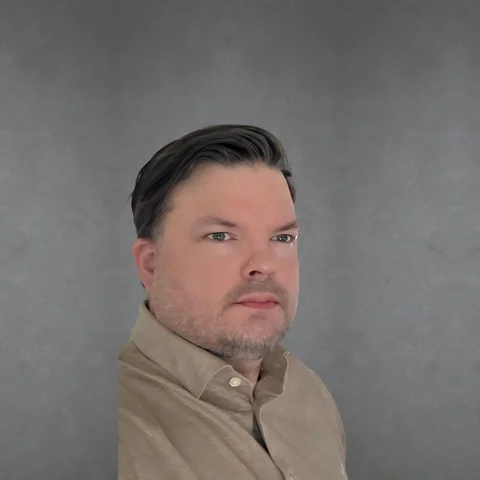
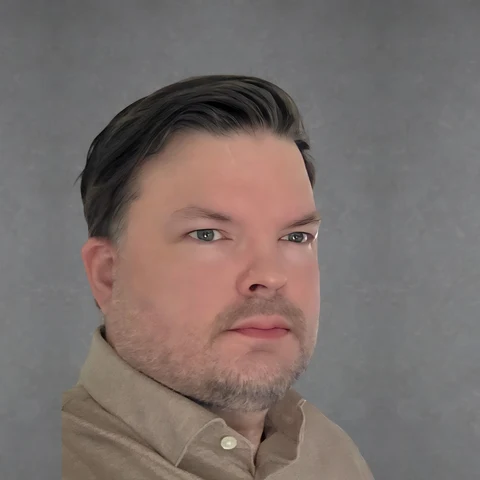
Ajattomat tekstit, korkeammat herot, Ukonsaari Inariin, ei-varattaville oikeat linkit (Vesa 20.9.)
- Tietoja: "ajamme itse reitit, joista kirjoitamme" ja "kesäkuvat ovat heinäkuun 2026 kiertomatkalta" pois 12 kielellä. Teksti kertoo nyt vain sen mikä pysyy totena: kuka julkaisee, mitä sivusto käsittelee ja että jokaisen kuvan lähde lukee kuvassa. Sama kuvaluettelon johdannossa ja kesäkaistan otsikossa ("Kesä 2026" → "Kesäkausi"). Vesa: "ei luvata sellaista mitä ei voida pitää … muuten joutuu vaihtaan tekstejä koko ajan."
- Tietoja-kuva rajattu uudelleen (pää kehyksessä, hartiat näkyvät); oli keskeltä rajattu ja leikkaantui oudosti.
- Kategoriasivun hero 42→50 vh (md 46→56) ja 12 hero-kuvalle oma tarkennuspiste: oletus 'center 35%' näytti maisemakuvasta taivaan, ei rinnettä.
- Inarin kesähero = Ukonsaari, Inarijärven saamelainen pyhä saari (Trogain, CC BY-SA 3.0). Oli pusikkoa vaikka teksti puhuu saamelaiskulttuurista.
- Ei-varattavat kohteet: "Suunnittele käynti" vei SAMALLE kohdesivulle jolla lukija jo oli ⇒ kuollut klikkaus. Nyt 19 kohteella oma virallinen sivu (kaikki mitattu 20.9.: 200, ei uudelleenohjausta): Arktikum, SantaPark, Siida, Pentik, luontoon.fi ×5, SnowCastle, SnowVillage, Pyhä, Suomu, Santa's Little Village, Levi, Ylläs, Ruka.
- Levi, Ylläs ja Ruka lisätty ei-varattaviksi: hissilippu ostetaan keskuksen omalta sivulta, ei GetYourGuiden hausta. Pyhä ja Suomu olivat jo listalla.
- "Varatuin elämys" → "Toimituksen poiminta" 12 kielellä: emme mittaa varausmääriä, joten superlatiivi oli väite jota ei voi todistaa.
[…]

Changed region(s): [[0.125, 0.1562, 0.7188, 1.0], [0.7188, 0.9062, 0.7812, 1.0]]

diff --git a/src/components/PhotoCredit.tsx b/src/components/PhotoCredit.tsx
@@ -52,18 +52,18 @@ const LIST_TITLE: Record<string, string> = {
   fr: 'Crédits photo', it: 'Crediti fotografici', nl: 'Fotoverantwoording',
 };
 const LIST_LEAD: Record<string, string> = {
-  en: 'Summer photographs are our own from the July 2026 road trip. The photographs below come from Wikimedia Commons under the licence shown; each link opens the original file and its licence.',
-  fi: 'Kesäkuvat ovat omiamme heinäkuun 2026 kiertomatkalta. Alla luetellut kuvat ovat Wikimedia Commonsista mainitulla lisenssillä; linkit avaavat alkuperäisen tiedoston ja lisenssin.',
-  de: 'Die Sommerfotos sind unsere eigenen von der Rundreise im Juli 2026. Die folgenden Fotos stammen von Wikimedia Commons unter der angegebenen Lizenz; jeder Link öffnet die Originaldatei und ihre Lizenz.',
-  sv: 'Sommarbilderna är våra egna från rundresan i juli 2026. Bilderna nedan kommer från Wikimedia Commons under angiven licens; länkarna öppnar originalfilen och licensen.',
-  ja: '夏の写真は2026年7月の旅で撮影した自社の写真です。以下の写真はWikimedia Commonsから記載のライセンスで使用しており、リンク先で元ファイルとライセンスを確認できます。',
-  es: 'Las fotos de verano son nuestras, del viaje de julio de 2026. Las fotos siguientes proceden de Wikimedia Commons con la licencia indicada; cada enlace abre el archivo original y su licencia.',
-  'pt-BR': 'As fotos de verão são nossas, da viagem de julho de 2026. As fotos abaixo vêm do Wikimedia Commons com a licença indicada; cada link abre o arquivo original e sua licença.',
-  'zh-CN': '夏季照片是我们在2026年7月旅途中拍摄的。以下照片来自维基共享资源，采用所示许可协议；链接指向原始文件及其许可。',
-  ko: '여름 사진은 2026년 7월 여행에서 직접 촬영한 것입니다. 아래 사진은 위키미디어 공용에서 표시된 라이선스로 사용하며, 링크는 원본 파일과 라이선스로 연결됩니다.',
-  fr: "Les photos d'été sont les nôtres, prises lors du road trip de juillet 2026. Les photos ci-dessous proviennent de Wikimedia Commons sous la licence indiquée ; chaque lien ouvre le fichier original et sa licence.",
-  it: "Le foto estive sono nostre, scattate nel viaggio di luglio 2026. Le foto qui sotto provengono da Wikimedia Commons con la licenza indicata; ogni link apre il file originale e la sua licenza.",
-  nl: "De zomerfoto's zijn van onszelf, gemaakt tijdens de rondreis in juli 2026. De foto's hieronder komen van Wikimedia Commons onder de vermelde licentie; elke link opent het originele bestand en de licentie.",
+  en: "Some of the photographs on this site are our own. The ones listed below come from Wikimedia Commons under the licence shown; each link opens the original file and its licence.",
+  fi: "Osa sivuston kuvista on omiamme. Alla luetellut kuvat ovat Wikimedia Commonsista mainitulla lisenssillä; linkit avaavat alkuperäisen tiedoston ja lisenssin.",
+  de: "Ein Teil der Fotos auf dieser Website stammt von uns. Die unten aufgeführten Fotos kommen von Wikimedia Commons unter der angegebenen Lizenz; jeder Link öffnet die Originaldatei und ihre Lizenz.",
+  sv: "En del av bilderna på webbplatsen är våra egna. Bilderna nedan kommer från Wikimedia Commons under angiven licens; länkarna öppnar originalfilen och licensen.",
+  ja: "本サイトの写真の一部は自社で撮影したものです。以下の写真はWikimedia Commonsから記載のライセンスで使用しており、リンク先で元ファイルとライセンスを確認できます。",
+  es: "Algunas fotos del sitio son nuestras. Las que aparecen abajo proceden de Wikimedia Commons con la licencia indicada; cada enlace abre el archivo original y su licencia.",
+  'pt-BR': "Algumas fotos do site são nossas. As listadas abaixo vêm do Wikimedia Commons com a licença indicada; cada link abre o arquivo original e sua licença.",
+  'zh-CN': "本站部分照片为我们自己拍摄。以下照片来自维基共享资源，采用所示许可协议；链接指向原始文件及其许可。",
+  ko: "이 사이트의 사진 일부는 직접 촬영한 것입니다. 아래 사진은 위키미디어 공용에서 표시된 라이선스로 사용하며, 링크는 원본 파일과 라이선스로 연결됩니다.",
+  fr: "Une partie des photos du site sont les nôtres. Celles listées ci-dessous proviennent de Wikimedia Commons sous la licence indiquée ; chaque lien ouvre le fichier original et sa licence.",
+  it: "Alcune foto del sito sono nostre. Quelle elencate qui sotto provengono da Wikimedia Commons con la licenza indicata; ogni link apre il file originale e la sua licenza.",
+  nl: "Een deel van de foto's op de site is van onszelf. De foto's hieronder komen van Wikimedia Commons onder de vermelde licentie; elke link opent het originele bestand en de licentie.",
 };
 
 /** Tietoja-sivun kuvaluettelo: kaikki Commons-kuvat tekijöineen ja lisenssilinkkeineen. */

diff --git a/src/data/activities.ts b/src/data/activities.ts
@@ -1350,7 +1350,46 @@ const NON_BOOKABLE = new Set<string>([
   'pyh-ski-resort',        // lift tickets at the resort / pyha.fi
   'kem-suomu-ski',         // lift tickets at the resort / suomutunturi.fi
   'kem-santas-village',    // booked directly with the village (santaslittlevillage.fi)
-]);
+  // 20.9.2026 (Vesa: "kertoo Levin laskettelurinteestä ja vie Ylläksen yleiseen hakuun"):
+  // hissilippua ei osteta GetYourGuidelta vaan keskuksen omalta sivulta. Pyhä ja Suomu olivat
+  // jo tällä listalla — Levi, Ylläs ja Ruka puuttuivat, ja niiden kortit lähettivät lukijan
+  // geneeriseen hakuun. Sama sääntö kaikille viidelle.
+  'lev-ski-resort',
+  'yll-ski-resort',
+  'ruk-ski-resort',
+])
+
+// Ei-varattavan kohteen VIRALLINEN sivu. Ilman tätä kortin "Suunnittele käynti" linkitti
+// samalle kohdesivulle, jolla lukija jo seisoi — klikkaus ei tehnyt mitään (Vesa 20.9.2026:
+// "miksi Levin SnowVillageen ei voi painaa?"). Jokainen osoite mitattu 20.9.2026 (GET + selain-UA,
+// HTTP 200, ei uudelleenohjausta muualle). Nämä ovat toimituksellisia lähdelinkkejä, eivät
+// affiliate-linkkejä: ei sponsored/nofollow, mutta utm-merkintä withReferral-funktiolla.
+export const OFFICIAL_SITE: Record<string, string> = {
+  'rov-arktikum': 'https://arktikum.fi/',
+  'rov-santapark': 'https://santapark.fi/',
+  'ina-siida-museum': 'https://siida.fi/',
+  'pos-pentik': 'https://www.pentik.com/',
+  'saa-uk-national-park': 'https://www.luontoon.fi/en/urho-kekkonen',
+  'ina-pielpajärvi': 'https://www.luontoon.fi/en/pielpajarvi',
+  'pos-riisitunturi': 'https://www.luontoon.fi/en/riisitunturi',
+  'ruk-karhunkierros': 'https://www.luontoon.fi/en/bear-trail',
+  'yll-pallas-hike': 'https://www.luontoon.fi/en/pallas-yllastunturi',
+  'pyh-national-park': 'https://www.luontoon.fi/en/pyha-luosto',
+  'tor-snowcastle': 'https://www.snowcastle.net/',
+  // 🔴 lev-snowvillage ja yll-lainio-snow ovat SAMA kohde: Lapland Hotels SnowVillage
+  // Lainiossa, 30 min Leviltä ja Ylläkseltä. Kortteja on kaksi, koska kumpikin kylä
+  // markkinoi sitä omanaan. Molemmat osoittavat kohteen omalle sivulle.
+  'lev-snowvillage': 'https://www.laplandhotels.com/EN/hotels-in-lapland/yllas/lapland-hotels-snowvillage/',
+  'yll-lainio-snow': 'https://www.laplandhotels.com/EN/hotels-in-lapland/yllas/lapland-hotels-snowvillage/',
+  'pyh-ski-resort': 'https://pyha.fi/',
+  'kem-suomu-ski': 'https://www.suomutunturi.fi/',
+  'kem-santas-village': 'https://santaslittlevillage.fi/',
+  'lev-ski-resort': 'https://www.levi.fi/',
+  'yll-ski-resort': 'https://yllas.fi/',
+  'ruk-ski-resort': 'https://www.ruka.fi/',
+  // tor-haparanda-shopping: omatoiminen ostospäivä kahdessa maassa, ei yhtä virallista
+  // sivua ⇒ ei riviä, jolloin kortti putoaa kategoriasivulle (ks. ActivityCard).
+};;
 
 // Concise GYG search query per activity: "<activity type> <place>" — the proven
 // pattern that lands on real, relevant results (verified against GYG /s/?q=).

diff --git a/src/locales/copy.ko.ts b/src/locales/copy.ko.ts
@@ -257,7 +257,7 @@ const ko: SectionCopy = {
     scrollAria: '카테고리로 스크롤',
   },
   summerBand: {
-    eyebrow: '2026년 여름 · 지금 예약 가능',
+    eyebrow: "여름 시즌 · 지금 예약 가능",
     h2: '라플란드의 여름은 가장 잘 알려지지 않은 비밀입니다.',
     lead: '백야는 결코 지지 않습니다. 숲이 열립니다. 연어가 거슬러 오르고, 8월부터 산맥은 루스카로 붉게 물듭니다. 대부분의 운영자는 6월까지 폭넓은 가용성이 있지만, 7월이 되면 가장 좋은 시간은 모두 매진됩니다.',
     bookCta: '여름 액티비티 예약', browseCta: '여름 가이드 둘러보기',
@@ -393,7 +393,7 @@ const ko: SectionCopy = {
     notFoundH1: '목적지를 찾을 수 없음', backDestinations: '← 목적지로 돌아가기',
     allDestinationsNav: '모든 목적지', bookActivitiesIn: '액티비티 예약: {dest}',
     stayIn: '숙박:', activitiesShort: '액티비티',
-    mustDoKicker: '필수 체험', mustDoH2: '가장 많이 예약된 체험',
+    mustDoKicker: '필수 체험', mustDoH2: "에디터 추천",
     localKicker: '현지 정보', localH2: '인사이더 팁',
     operatorsLabel: '신뢰할 수 있는 운영자:',
     gygTitlePrefix: '엄선한', gygTitleSuffix: '투어', gygEyebrow: '지금 예약 가능',
@@ -468,7 +468,7 @@ const ko: SectionCopy = {
     h1: "LaplandActivities를 만드는 사람들",
     lead: "핀란드에서 만드는 라플란드 투어 가이드입니다. 다른 #LaplandVibes 사이트를 운영하는 같은 소규모 팀이 글을 쓰고 업데이트합니다.",
     whoH2: "저희는 누구인가",
-    whoBody: "LaplandActivities는 Vesa Pesola가 설립한 핀란드 기업 LaPeso Oy가 발행합니다. 글로 쓰는 길은 직접 달리고, 가능한 한 저희 카메라로 촬영합니다. 이 사이트의 여름 사진은 2026년 7월 루카에서 토르니오까지 다녀온 여행에서 찍은 것입니다. 사이트는 #LaplandVibes 네트워크의 하나로, 각 사이트가 한 가지 주제를 깊이 다룹니다. 이 사이트의 주제는 라플란드에서 무엇을 할까입니다.",
+    whoBody: "LaplandActivities는 Vesa Pesola가 설립한 핀란드 기업 LaPeso Oy가 발행합니다. 이 사이트는 각 사이트가 하나의 주제를 다루는 #LaplandVibes 네트워크에 속하며, 라플란드에서 할 수 있는 일을 소개합니다. 모든 사진은 이미지에 출처를 표시하고 전체 목록은 이 페이지 끝에 있습니다. 직접 촬영한 사진, 위키미디어 공용의 사진, 제휴사가 제공한 사진이 있습니다.",
     howH2: "활동이 사이트에 실리기까지",
     howItems: [
       "이름이 명시된 운영사의 실제 예약 가능한 상품이거나, 국립공원처럼 누구나 갈 수 있는 무료 장소여야 합니다.",

diff --git a/src/data/photoCredits.ts b/src/data/photoCredits.ts
@@ -102,7 +102,7 @@ export const PHOTO_CREDITS: Record<string, PhotoCredit> = {
   "/images/activities/winter/snowmobile-saariselka.webp": { kind: 'commons', author: "Timo Newton-Syms from Helsinki, Finland &amp; Maidenhead, Berkshire, UK", license: "CC BY-SA 2.0", licenseUrl: "https://creativecommons.org/licenses/by-sa/2.0", pageUrl: "https://commons.wikimedia.org/wiki/File%3ASnowmobiles_(301004843).jpg", title: "Snowmobiles (301004843).jpg", date: "2002-12-30" },
   "/images/activities/winter/snowshoe-forest.webp": { kind: 'commons', author: "Anneli Salo", license: "CC BY-SA 3.0", licenseUrl: "https://creativecommons.org/licenses/by-sa/3.0", pageUrl: "https://commons.wikimedia.org/wiki/File%3ASnowshoers_Lumikengill%C3%A4_IMG_4606_C.JPG", title: "Snowshoers Lumikengillä IMG 4606 C.JPG", date: "2011-03-27" },
   "/images/heroes/husky-sled-day.webp": { kind: 'commons', author: "Markus Trienke", license: "CC BY-SA 2.0", licenseUrl: "https://creativecommons.org/licenses/by-sa/2.0", pageUrl: "https://commons.wikimedia.org/wiki/File%3ARune_(15854308540).jpg", title: "Rune (15854308540).jpg", date: "2014-12-08" },
-  "/images/heroes/inari-summer-lake.webp": { kind: 'commons', author: "Richard Mortel from Riyadh, Saudi Arabia", license: "CC BY 2.0", licenseUrl: "https://creativecommons.org/licenses/by/2.0", pageUrl: "https://commons.wikimedia.org/wiki/File%3AInarijarvi_Lake%2C_Finland_(6)_(36288896690).jpg", title: "Inarijarvi Lake, Finland (6) (36288896690).jpg", date: "Taken on 1" },
+  "/images/heroes/inari-summer-lake.webp": { kind: 'commons', author: "Trogain", license: "CC BY-SA 3.0", licenseUrl: "https://creativecommons.org/licenses/by-sa/3.0", pageUrl: "https://commons.wikimedia.org/wiki/File%3AUkonkivi.jpg", title: "Ukonkivi.jpg", date: "2011-09-11" },
   "/images/heroes/inari-winter-lake.webp": { kind: 'commons', author: "Manfred Werner - Tsui", license: "CC BY-SA 3.0", licenseUrl: "https://creativecommons.org/licenses/by-sa/3.0", pageUrl: "https://commons.wikimedia.org/wiki/File%3AInarij%C3%A4rventie_(Inari%2C_Suomi_-_Finland)_2013-03-10_b.jpg", title: "Inarijärventie (Inari, Suomi - Finland) 2013-03-10 b.jpg", date: "2013-03-10" },
   "/images/heroes/posio-summer-lake.webp": { kind: 'commons', author: "Timo Newton-Syms from Helsinki, Finland &amp; Maidenhead, Berkshire, UK", license: "CC BY-SA 2.0", licenseUrl: "https://creativecommons.org/licenses/by-sa/2.0", pageUrl: "https://commons.wikimedia.org/wiki/File%3ARiisitunturi_(39133821770).jpg", title: "Riisitunturi (39133821770).jpg", date: "2018-02-28" },
   "/images/heroes/posio-winter-tykky.webp": { kind: 'commons', author: "Ninara", license: "CC BY 2.0", licenseUrl: "https://creativecommons.org/licenses/by/2.0", pageUrl: "https://commons.wikimedia.org/wiki/File%3ARiisitunturi%2C_Finland_-_49785457928.jpg", title: "Riisitunturi, Finland - 49785457928.jpg", date: "Taken on 2" },

diff --git a/src/locales/copy.fr.ts b/src/locales/copy.fr.ts
@@ -257,7 +257,7 @@ const fr: SectionCopy = {
     scrollAria: 'Faire défiler vers les catégories',
   },
   summerBand: {
-    eyebrow: 'Été 2026 · réservations ouvertes',
+    eyebrow: "Saison estivale · réservez maintenant",
     h2: "L'été en Laponie est le secret le mieux gardé.",
     lead: "Le soleil de minuit ne se couche jamais. Les forêts s'ouvrent. Le saumon remonte les rivières et les fjälls virent au rouge avec le ruska dès août. La plupart des opérateurs ont encore beaucoup de disponibilité jusqu'en juin ; en juillet, les meilleurs créneaux sont déjà partis.",
     bookCta: "Réserver des activités d'été", browseCta: "Voir le guide d'été",
@@ -393,7 +393,7 @@ const fr: SectionCopy = {
     notFoundH1: 'Destination introuvable', backDestinations: '← Retour aux destinations',
     allDestinationsNav: 'Toutes les destinations', bookActivitiesIn: 'Réserver à {dest}',
     stayIn: 'Séjourner à', activitiesShort: 'activités',
-    mustDoKicker: 'À ne pas manquer', mustDoH2: 'L\'expérience la plus réservée',
+    mustDoKicker: 'À ne pas manquer', mustDoH2: "Notre choix sur place",
     localKicker: 'Info locale', localH2: 'Conseils d\'initiés',
     operatorsLabel: 'Opérateurs de confiance à',
     gygTitlePrefix: 'Tours', gygTitleSuffix: 'sélectionnés', gygEyebrow: 'Réservable maintenant',
@@ -465,7 +465,7 @@ const fr: SectionCopy = {
     h1: "Qui se cache derrière LaplandActivities",
     lead: "Un guide finlandais des excursions en Laponie, écrit et mis à jour par la même petite équipe qui anime les autres sites #LaplandVibes.",
     whoH2: "Qui nous sommes",
-    whoBody: "LaplandActivities est publié par LaPeso Oy, une société finlandaise fondée par Vesa Pesola. Nous parcourons nous-mêmes les routes dont nous parlons et photographions les lieux avec notre propre appareil dès que possible : les photos d'été de ce site viennent du road trip de juillet 2026, de Ruka à Tornio. Le site fait partie du réseau #LaplandVibes, où chaque site approfondit un sujet. Celui-ci répond à la question : que faire en Laponie.",
+    whoBody: "LaplandActivities est publié par LaPeso Oy, une société finlandaise fondée par Vesa Pesola. Le site appartient au réseau #LaplandVibes, où chaque site traite d'un seul sujet ; celui-ci porte sur ce que l'on peut faire en Laponie. Chaque photo indique sa source sur l'image même et la liste complète figure en bas de cette page : certaines sont les nôtres, d'autres viennent de Wikimedia Commons ou d'un partenaire.",
     howH2: "Comment une activité arrive sur ce site",
     howItems: [
       "Elle existe comme produit réel et réservable chez un opérateur nommé, ou comme lieu public gratuit, par exemple un parc national.",

diff --git a/src/locales/copy.it.ts b/src/locales/copy.it.ts
@@ -257,7 +257,7 @@ const it: SectionCopy = {
     scrollAria: 'Scorri verso le categorie',
   },
   summerBand: {
-    eyebrow: 'Estate 2026 · prenotazioni aperte',
+    eyebrow: "Stagione estiva · prenota ora",
     h2: "L'estate in Lapponia è il segreto meglio custodito.",
     lead: "Il sole di mezzanotte non tramonta mai. Le foreste si aprono. Risalgono i salmoni e i fjell virano al rosso del ruska da agosto. La maggior parte degli operatori ha ampia disponibilità fino a giugno, a luglio i posti migliori sono già andati.",
     bookCta: 'Prenota le attività estive', browseCta: 'Sfoglia la guida estiva',
@@ -393,7 +393,7 @@ const it: SectionCopy = {
     notFoundH1: 'Destinazione non trovata', backDestinations: '← Torna alle destinazioni',
     allDestinationsNav: 'Tutte le destinazioni', bookActivitiesIn: 'Prenota attività a {dest}',
     stayIn: 'Soggiorni a', activitiesShort: 'attività',
-    mustDoKicker: 'Da non perdere', mustDoH2: 'L\'esperienza più prenotata',
+    mustDoKicker: 'Da non perdere', mustDoH2: "La nostra scelta in zona",
     localKicker: 'Info locali', localH2: 'Consigli da insider',
     operatorsLabel: 'Operatori di fiducia a',
     gygTitlePrefix: 'Tour', gygTitleSuffix: 'selezionati', gygEyebrow: 'Prenotabile ora',
@@ -465,7 +465,7 @@ const it: SectionCopy = {
     h1: "Chi c'è dietro LaplandActivities",
     lead: "Una guida finlandese alle escursioni in Lapponia, scritta e aggiornata dallo stesso piccolo gruppo che cura gli altri siti #LaplandVibes.",
     whoH2: "Chi siamo",
-    whoBody: "LaplandActivities è pubblicato da LaPeso Oy, società finlandese fondata da Vesa Pesola. Percorriamo di persona le strade di cui scriviamo e fotografiamo i luoghi con la nostra macchina fotografica ogni volta che è possibile: le foto estive di questo sito vengono dal viaggio di luglio 2026 da Ruka a Tornio. Il sito fa parte della rete #LaplandVibes, in cui ogni sito approfondisce un tema. Questo risponde alla domanda: cosa fare in Lapponia.",
+    whoBody: "LaplandActivities è pubblicato da LaPeso Oy, azienda finlandese fondata da Vesa Pesola. Il sito fa parte della rete #LaplandVibes, in cui ogni sito tratta un solo tema; questo racconta che cosa si può fare in Lapponia. Ogni foto indica la fonte sull'immagine stessa e l'elenco completo è in fondo a questa pagina: alcune sono nostre, altre vengono da Wikimedia Commons o da un partner.",
     howH2: "Come un'attività arriva su questo sito",
     howItems: [
       "Esiste come prodotto reale e prenotabile di un operatore con nome e cognome, oppure come luogo pubblico gratuito, per esempio un parco nazionale.",

diff --git a/src/locales/copy.nl.ts b/src/locales/copy.nl.ts
@@ -257,7 +257,7 @@ const nl: SectionCopy = {
     scrollAria: 'Scroll naar categorieën',
   },
   summerBand: {
-    eyebrow: 'Zomer 2026 · nu boekbaar',
+    eyebrow: "Zomerseizoen · nu te boeken",
     h2: 'De zomer in Lapland is het best bewaarde geheim.',
     lead: 'De middernachtzon gaat nooit onder. Bossen openen zich. Zalm zwemt stroomopwaarts en vanaf augustus kleuren de fjälls rood door de ruska. De meeste aanbieders hebben tot juni ruime beschikbaarheid, in juli zijn de beste tijdslots al weg.',
     bookCta: 'Boek zomeractiviteiten', browseCta: 'Bekijk zomergids',
@@ -393,7 +393,7 @@ const nl: SectionCopy = {
     notFoundH1: 'Bestemming niet gevonden', backDestinations: '← Terug naar bestemmingen',
     allDestinationsNav: 'Alle bestemmingen', bookActivitiesIn: 'Boek activiteiten: {dest}',
     stayIn: 'Verblijf in', activitiesShort: 'activiteiten',
-    mustDoKicker: 'Niet missen', mustDoH2: 'Meest geboekte ervaring',
+    mustDoKicker: 'Niet missen', mustDoH2: "Onze keuze ter plaatse",
     localKicker: 'Lokale info', localH2: 'Insider-tips',
     operatorsLabel: 'Vertrouwde aanbieders in',
     gygTitlePrefix: 'Zorgvuldig gekozen', gygTitleSuffix: 'tours', gygEyebrow: 'Nu boekbaar',
@@ -465,7 +465,7 @@ const nl: SectionCopy = {
     h1: "Wie er achter LaplandActivities zit",
     lead: "Een Finse gids voor tours in Lapland, geschreven en bijgehouden door hetzelfde kleine team dat de andere #LaplandVibes-sites beheert.",
     whoH2: "Wie wij zijn",
-    whoBody: "LaplandActivities wordt uitgegeven door LaPeso Oy, een Fins bedrijf opgericht door Vesa Pesola. Wij rijden zelf de routes waarover wij schrijven en fotograferen de plekken waar mogelijk met onze eigen camera: de zomerfoto's op deze site komen van de rondreis in juli 2026 van Ruka naar Tornio. De site hoort bij het #LaplandVibes-netwerk, waarin elke site één onderwerp uitdiept. Deze gaat over wat u in Lapland kunt doen.",
+    whoBody: "LaplandActivities wordt uitgegeven door LaPeso Oy, een Fins bedrijf opgericht door Vesa Pesola. De site hoort bij het #LaplandVibes-netwerk, waarin elke site één onderwerp behandelt; deze gaat over wat je in Lapland kunt doen. Bij elke foto staat de bron in de afbeelding zelf en de volledige lijst staat onderaan deze pagina: sommige zijn van onszelf, andere komen van Wikimedia Commons of van een partner.",
     howH2: "Hoe een activiteit op deze site komt",
     howItems: [
       "Zij bestaat als echt, boekbaar product van een met naam genoemde aanbieder, of als vrij toegankelijke plek zoals een nationaal park.",

diff --git a/src/locales/copy.ja.ts b/src/locales/copy.ja.ts
@@ -268,7 +268,7 @@ const ja: SectionCopy = {
     scrollAria: 'カテゴリーへスクロール',
   },
   summerBand: {
-    eyebrow: '2026年夏、予約受付中',
+    eyebrow: "夏シーズン・予約受付中",
     h2: 'ラップランドの夏は最大の隠れた魅力。',
     lead: '白夜は沈まない。森が開ける。サーモンが遡上し、8月から山々がルスカで赤く染まる。ほとんどのオペレーターは6月まで広く空きがある。7月までにベストの枠はなくなる。',
     bookCta: '夏のアクティビティを予約',
@@ -446,7 +446,7 @@ const ja: SectionCopy = {
     stayIn: '宿泊:',
     activitiesShort: '件',
     mustDoKicker: '必須',
-    mustDoH2: '最も予約されている体験',
+    mustDoH2: "編集部のおすすめ",
     localKicker: '地元情報',
     localH2: 'インサイダーのヒント',
     operatorsLabel: '信頼できるオペレーター:',
@@ -526,7 +526,7 @@ const ja: SectionCopy = {
     h1: "LaplandActivitiesの運営者",
     lead: "ラップランドのツアーを紹介するフィンランド発のガイドです。ほかの#LaplandVibesサイトを運営する同じ小さなチームが執筆と更新を行っています。",
     whoH2: "私たちについて",
-    whoBody: "LaplandActivitiesは、Vesa Pesolaが設立したフィンランドの企業LaPeso Oyが発行しています。記事にする道は自分たちで走り、可能な限り自分たちのカメラで撮影しています。このサイトの夏の写真は、2026年7月にルカからトルニオまで巡った旅で撮ったものです。サイトは#LaplandVibesネットワークの一つで、各サイトが一つのテーマを掘り下げます。このサイトのテーマは「ラップランドで何をするか」です。",
+    whoBody: "LaplandActivitiesは、Vesa Pesolaが設立したフィンランドの企業LaPeso Oyが発行しています。本サイトは、各サイトがひとつのテーマを扱う#LaplandVibesネットワークの一つで、ラップランドでできることを紹介します。写真の出典は画像内に明記し、一覧はこのページの末尾にあります。自社で撮影したもの、Wikimedia Commonsのもの、提携先が提供したものがあります。",
     howH2: "掲載までの流れ",
     howItems: [
       "催行会社名が明記された実在の予約可能な商品であるか、国立公園のように誰でも訪れられる場所であること。",

diff --git a/src/components/ActivityCard.tsx b/src/components/ActivityCard.tsx
@@ -1,8 +1,9 @@
 import { MapPin, ExternalLink, ArrowRight } from 'lucide-react';
 import { Link } from 'react-router-dom';
 import PhotoCredit from './PhotoCredit';
+import { withReferral } from '../lib/referral';
 import type { Activity } from '../data/activities';
-import { isBookable, gygQueryForActivity, PARTNER_PAGE } from '../data/activities';
+import { isBookable, gygQueryForActivity, PARTNER_PAGE, OFFICIAL_SITE } from '../data/activities';
 import { imageForActivity } from '../data/images';
 import AffiliateCTA from './AffiliateCTA';
 import { useLang, useLocalePath } from '../i18n/useLang';
@@ -23,6 +24,9 @@ export default function ActivityCard({ activity: rawActivity, image }: { activit
   // Paid-partner activity (Bear Kuusamo): CTA routes to our partner feature
   // page, never to a GYG search — see PARTNER_PAGE in data/activities.ts.
   const partnerPath = PARTNER_PAGE[rawActivity.id];
+  // Ei-varattava kohde: oma virallinen sivu, jos sellainen on mitattu; muuten kategoriasivu.
+  // EI koskaan takaisin samalle kohdesivulle — se oli kuollut klikkaus (Vesa 20.9.2026).
+  const officialSite = OFFICIAL_SITE[rawActivity.id];
   const sid = `card_${rawActivity.id}`.slice(0, 50).replace(/-/g, '_');
 
   return (
@@ -89,9 +93,18 @@ export default function ActivityCard({ activity: rawActivity, image }: { activit
           >
             {c.findBook} <ExternalLink className="w-3.5 h-3.5" />
           </AffiliateCTA>
+        ) : officialSite ? (
+          <a
+            href={withReferral(officialSite, 'laplandactivities_card')}
+            target="_blank"
+            rel="noopener noreferrer"
+            className="lv-tap inline-flex items-center justify-center gap-2 bg-white/8 hover:bg-white/14 text-snow border border-white/20 hover:border-vibe-pink/40 px-4 py-2.5 rounded-full text-sm font-semibold transition-all"
+          >
+            {c.planVisit} <ExternalLink className="w-3.5 h-3.5" />
+          </a>
         ) : (
           <Link
-            to={to(`/destinations/${activity.destinationSlug}`)}
+            to={to(`/categories/${activity.categorySlug}`)}
             className="inline-flex items-center justify-center gap-2 bg-white/8 hover:bg-white/14 text-snow border border-white/20 hover:border-vibe-pink/40 px-4 py-2.5 rounded-full text-sm font-semibold transition-all"
           >
             {c.planVisit} <ArrowRight className="w-3.5 h-3.5" />

diff --git a/src/locales/copy.de.ts b/src/locales/copy.de.ts
@@ -268,7 +268,7 @@ const de: SectionCopy = {
     scrollAria: 'Zu Kategorien scrollen',
   },
   summerBand: {
-    eyebrow: 'Sommer 2026 · jetzt buchbar',
+    eyebrow: "Sommersaison · jetzt buchbar",
     h2: 'Lappland im Sommer ist das bestgehütete Geheimnis.',
     lead: 'Die Mitternachtssonne geht nicht unter. Die Wälder öffnen sich. Der Lachs zieht, und ab August färben sich die Fjälls durch die Ruska rot. Bis Ende Juni haben die meisten Anbieter gute Verfügbarkeit, im Juli sind die besten Slots vergeben.',
     bookCta: 'Sommeraktivität buchen',
@@ -446,7 +446,7 @@ const de: SectionCopy = {
     stayIn: 'Übernachten in',
     activitiesShort: 'Aktivitäten',
     mustDoKicker: 'Pflichtprogramm',
-    mustDoH2: 'Meistgebuchtes Erlebnis',
+    mustDoH2: "Unsere Empfehlung vor Ort",
     localKicker: 'Lokales Wissen',
     localH2: 'Insider-Tipps',
     operatorsLabel: 'Handverlesene Anbieter in',
@@ -526,7 +526,7 @@ const de: SectionCopy = {
     h1: "Wer hinter LaplandActivities steht",
     lead: "Ein finnischer Führer zu Touren in Lappland, geschrieben und gepflegt vom selben kleinen Team, das auch die übrigen #LaplandVibes-Seiten betreibt.",
     whoH2: "Wer wir sind",
-    whoBody: "LaplandActivities wird von LaPeso Oy herausgegeben, einem finnischen Unternehmen, das Vesa Pesola gegründet hat. Wir fahren die Strecken, über die wir schreiben, selbst und fotografieren die Orte mit eigener Kamera, wann immer es geht: Die Sommerbilder dieser Seite stammen von der Rundreise im Juli 2026 von Ruka bis Tornio. Die Seite gehört zum #LaplandVibes-Netzwerk, in dem jede Seite ein Thema vertieft. Diese hier zeigt, was man in Lappland unternehmen kann.",
+    whoBody: "LaplandActivities wird von LaPeso Oy herausgegeben, einem finnischen Unternehmen, das Vesa Pesola gegründet hat. Die Website gehört zum #LaplandVibes-Netzwerk, in dem jede Seite ein Thema behandelt; diese zeigt, was man in Lappland unternehmen kann. Jedes Foto nennt seine Quelle im Bild selbst, die vollständige Liste steht am Ende dieser Seite: einige sind unsere eigenen, andere stammen von Wikimedia Commons oder von einem Partner.",
     howH2: "Wie eine Aktivität auf diese Seite kommt",
     howItems: [
       "Sie existiert als echtes, buchbares Produkt eines namentlich genannten Veranstalters oder als frei zugänglicher Ort wie ein Nationalpark.",

diff --git a/src/locales/copy.es.ts b/src/locales/copy.es.ts
@@ -268,7 +268,7 @@ const es: SectionCopy = {
     scrollAria: 'Bajar a categorías',
   },
   summerBand: {
-    eyebrow: 'Verano 2026 · reservas abiertas',
+    eyebrow: "Temporada de verano · reserva ya",
     h2: 'El verano lapón es el secreto mejor guardado.',
     lead: 'El sol de medianoche nunca se pone. Los bosques se abren. Suben los salmones y los fjells se vuelven rojos con el ruska desde agosto. La mayoría de operadores tienen disponibilidad hasta junio; en julio se acaban las mejores plazas.',
     bookCta: 'Reservar actividades de verano',
@@ -446,7 +446,7 @@ const es: SectionCopy = {
     stayIn: 'Alojarse en',
     activitiesShort: 'actividades',
     mustDoKicker: 'Imprescindible',
-    mustDoH2: 'Experiencia más reservada',
+    mustDoH2: "Nuestra elección en este destino",
     localKicker: 'Información local',
     localH2: 'Consejos de locales',
     operatorsLabel: 'Operadores de confianza en',
@@ -526,7 +526,7 @@ const es: SectionCopy = {
     h1: "Quién está detrás de LaplandActivities",
     lead: "Una guía finlandesa de excursiones en Laponia, escrita y actualizada por el mismo equipo pequeño que gestiona el resto de sitios #LaplandVibes.",
     whoH2: "Quiénes somos",
-    whoBody: "LaplandActivities lo publica LaPeso Oy, una empresa finlandesa fundada por Vesa Pesola. Recorremos nosotros mismos las rutas sobre las que escribimos y fotografiamos los lugares con nuestra cámara siempre que es posible: las fotos de verano de este sitio son del viaje de julio de 2026 entre Ruka y Tornio. El sitio forma parte de la red #LaplandVibes, en la que cada sitio profundiza en un tema. Este trata de qué hacer en Laponia.",
+    whoBody: "LaplandActivities lo publica LaPeso Oy, una empresa finlandesa fundada por Vesa Pesola. El sitio forma parte de la red #LaplandVibes, donde cada sitio trata un tema; este trata de lo que se puede hacer en Laponia. Cada fotografía indica su fuente en la propia imagen y la lista completa está al final de esta página: algunas son nuestras, otras proceden de Wikimedia Commons y otras son imágenes propias de un socio.",
     howH2: "Cómo llega una actividad a este sitio",
     howItems: [
       "Existe como producto real y reservable de un operador con nombre, o como lugar público gratuito, por ejemplo un parque nacional.",

diff --git a/src/locales/copy.ptBR.ts b/src/locales/copy.ptBR.ts
@@ -268,7 +268,7 @@ const ptBR: SectionCopy = {
     scrollAria: 'Rolar até as categorias',
   },
   summerBand: {
-    eyebrow: 'Verão 2026 · reservas abertas',
+    eyebrow: "Temporada de verão · reserve agora",
     h2: 'O verão na Lapônia é o segredo mais bem guardado.',
     lead: 'O sol da meia-noite nunca se põe. As florestas se abrem. O salmão sobe e os montes ficam vermelhos com o ruska a partir de agosto. A maioria das operadoras tem boa disponibilidade até junho, em julho as melhores vagas vão embora.',
     bookCta: 'Reservar atividades de verão',
@@ -446,7 +446,7 @@ const ptBR: SectionCopy = {
     stayIn: 'Hospedar em',
     activitiesShort: 'atividades',
     mustDoKicker: 'Imperdível',
-    mustDoH2: 'Experiência mais reservada',
+    mustDoH2: "A nossa escolha neste destino",
     localKicker: 'Informação local',
     localH2: 'Dicas de quem mora ali',
     operatorsLabel: 'Operadoras confiáveis em',
@@ -526,7 +526,7 @@ const ptBR: SectionCopy = {
     h1: "Quem está por trás do LaplandActivities",
     lead: "Um guia finlandês de passeios na Lapônia, escrito e atualizado pela mesma equipe pequena que cuida dos outros sites #LaplandVibes.",
     whoH2: "Quem somos",
-    whoBody: "O LaplandActivities é publicado pela LaPeso Oy, empresa finlandesa fundada por Vesa Pesola. Nós mesmos percorremos as rotas sobre as quais escrevemos e fotografamos os lugares com nossa câmera sempre que possível: as fotos de verão deste site são da viagem de julho de 2026 entre Ruka e Tornio. O site faz parte da rede #LaplandVibes, em que cada site aprofunda um tema. Este trata do que fazer na Lapônia.",
+    whoBody: "O LaplandActivities é publicado pela LaPeso Oy, empresa finlandesa fundada por Vesa Pesola. O site faz parte da rede #LaplandVibes, em que cada site trata de um tema; este mostra o que dá para fazer na Lapônia. Cada foto indica a fonte na própria imagem e a lista completa está no fim desta página: algumas são nossas, outras vêm do Wikimedia Commons e outras são imagens do próprio parceiro.",
     howH2: "Como uma atividade entra neste site",
     howItems: [
       "Ela existe como produto real e reservável de uma operadora identificada, ou como lugar público gratuito, por exemplo um parque nacional.",
